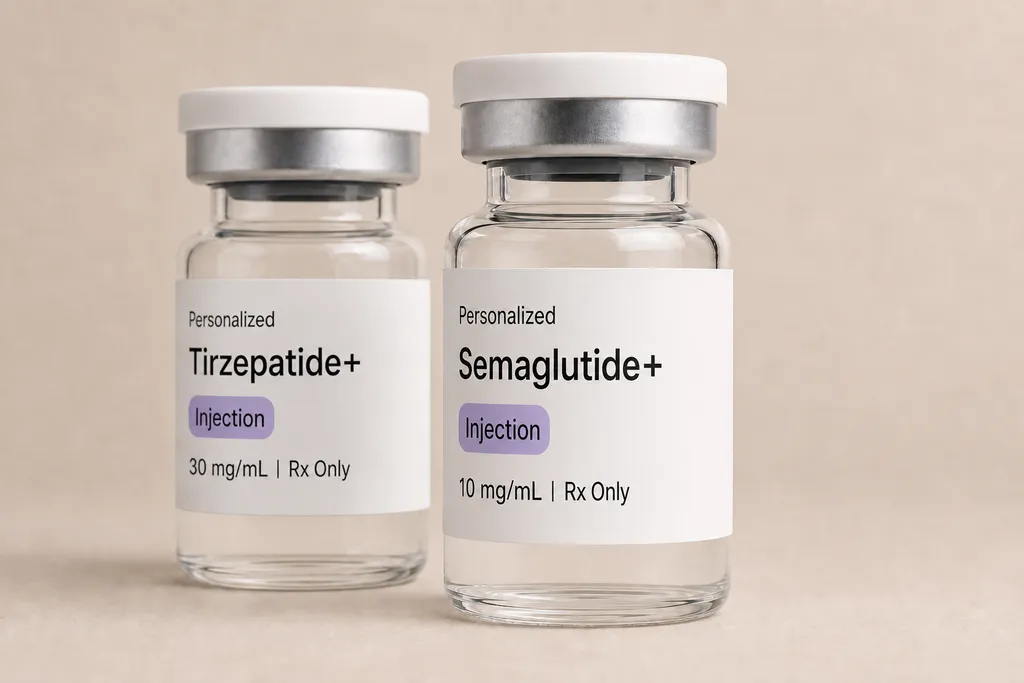
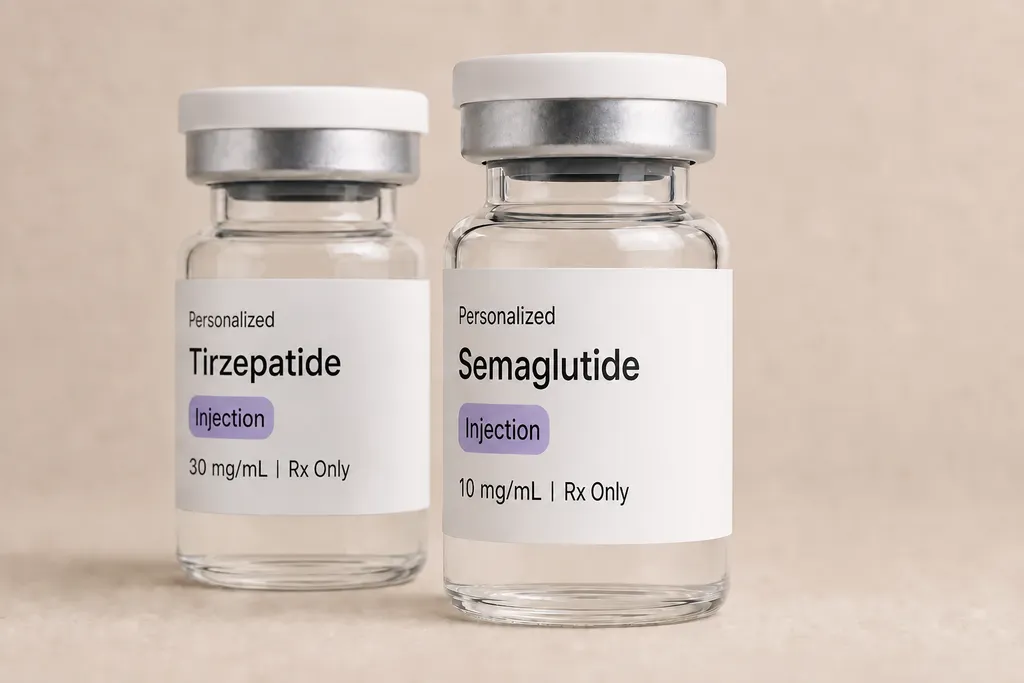
Remove plus signs from Semaglutide and Tirzepatide vial labels across site imagery.

diff --git a/src/marketing/howItWorksData.js b/src/marketing/howItWorksData.js
@@ -10,7 +10,7 @@ export const HOW_STEPS = [
     titleItalic: 'treatment plan',
     body: 'Browse our science-backed GLP-1 options and select the plan that fits your goals. Then complete a short medical history questionnaire — a few minutes that helps our providers confirm you’re a good fit for treatment.',
     image: {
-      src: `${HIW}/treatment-plan.webp?v=fast1`,
+      src: `${HIW}/treatment-plan.webp?v=noplus1`,
       alt: 'Pax Longevity Semaglutide and Tirzepatide treatment vials',
     },
     chips: ['Semaglutide', 'Tirzepatide'],
@@ -26,7 +26,7 @@ export const HOW_STEPS = [
     titleItalic: 'verify identity',
     body: 'Complete your purchase, then take one quick step to verify your identity by entering the last four digits of your SSN or uploading a photo of a government-issued ID. It’s a standard part of the process — and it ensures your prescription is issued safely and securely.',
     image: {
-      src: `${HIW}/checkout-verify-identity.webp?v=fast1`,
+      src: `${HIW}/checkout-verify-identity.webp?v=noplus1`,
       alt: 'Secure Pax checkout and identity verification',
     },
     chips: ['Secure checkout', 'ID verification', 'Cancel anytime'],
@@ -48,7 +48,7 @@ export const HOW_STEPS = [
     titleItalic: 'medication',
     body: 'Once approved, your prescription is sent to our licensed partner pharmacy and fulfilled to your exact treatment plan. Your medication ships via expedited delivery — securely packaged and delivered directly to your door.',
     image: {
-      src: `${HIW}/receive-your-medication.webp?v=fast1`,
+      src: `${HIW}/receive-your-medication.webp?v=noplus1`,
       alt: 'Pax Tirzepatide medication delivered in discreet packaging',
     },
     chips: ['Licensed pharmacy', 'Expedited shipping', 'Discreet packaging'],
@@ -73,7 +73,7 @@ export const HOW_STEPS = [
 export const HOW_WHY = [
   {
     image: {
-      src: `${YC}/semaglutide-tirzepatide-injection-vials.webp?v=fast1`,
+      src: `${YC}/semaglutide-tirzepatide-injection-vials.webp?v=noplus1`,
       alt: 'Pax Semaglutide and Tirzepatide vials',
     },
     title: 'Transparent & Trusted',
@@ -99,11 +99,11 @@ export const HOW_WHY = [
 
 export const HOW_MEDIA = {
   priority: {
-    src: `${HIW}/patient-portal-dashboard-semaglutide-mobile.webp?v=fast1`,
+    src: `${HIW}/patient-portal-dashboard-semaglutide-mobile.webp?v=noplus1`,
     alt: 'Pax Patient Center dashboard showing treatment plan and health records',
   },
   cta: {
-    src: `${HIW}/patient-portal-dashboard-semaglutide-mobile.webp?v=fast1`,
+    src: `${HIW}/patient-portal-dashboard-semaglutide-mobile.webp?v=noplus1`,
     alt: 'Pax Patient Center on mobile — track progress and manage treatment',
   },
 };

diff --git a/src/marketing/PaxHomeTreatments.jsx b/src/marketing/PaxHomeTreatments.jsx
@@ -18,7 +18,7 @@ const TREATMENTS = [
     price: '$125',
     period: '/mo',
     priceNote: '6-month plan · charged only if prescribed',
-    vials: [`${IMG}/personalized-semaglutide-injection-vial.webp?v=fast1`],
+    vials: [`${IMG}/personalized-semaglutide-injection-vial.webp?v=noplus1`],
     cutoutPair: `${IMG}/pax-glp1-couple-cutout.avif`,
     startTx: 'semaglutide',
     learnHref: '#/treatments/weight-loss',
@@ -38,7 +38,7 @@ const TREATMENTS = [
     price: '$225',
     period: '/mo',
     priceNote: '6-month plan · charged only if prescribed',
-    vials: [`${IMG}/personalized-tirzepatide-injection-vial.webp?v=fast1`],
+    vials: [`${IMG}/personalized-tirzepatide-injection-vial.webp?v=noplus1`],
     cutoutPair: `${IMG}/pax-glp1-couple-cutout-tirz.avif`,
     startTx: 'tirzepatide',
     learnHref: '#/treatments/weight-loss',

diff --git a/src/marketing/TreatmentsExplore.jsx b/src/marketing/TreatmentsExplore.jsx
@@ -747,7 +747,7 @@ function KnowallSection({ variant, faqs, vialSrc, photoSrc, onCta }) {
 }
 
 export function WhySection({ glpVialSrc } = {}) {
-  const glpVial = glpVialSrc || `${IMG}/semaglutide-tirzepatide-injection-vials.webp?v=fast1`;
+  const glpVial = glpVialSrc || `${IMG}/semaglutide-tirzepatide-injection-vials.webp?v=noplus1`;
   const pillars = [
     {
       id: 'trusted',
@@ -838,7 +838,7 @@ export function WhySection({ glpVialSrc } = {}) {
       media: (
         <div className="pax-why__media-frame pax-why__media-frame--portal">
           <img
-            src={`${IMG}/hiw/patient-portal-dashboard-semaglutide-mobile.webp?v=fast1`}
+            src={`${IMG}/hiw/patient-portal-dashboard-semaglutide-mobile.webp?v=noplus1`}
             alt=""
             loading="lazy"
           />

diff --git a/src/marketing/PaxHome.jsx b/src/marketing/PaxHome.jsx
@@ -68,13 +68,13 @@ const MEMBERSHIP_CARDS = [
   {
     id: 'portal',
     fit: 'phone',
-    src: '/images/pax-media/hiw/patient-portal-dashboard-semaglutide-mobile.webp?v=fast1',
+    src: '/images/pax-media/hiw/patient-portal-dashboard-semaglutide-mobile.webp?v=noplus1',
     alt: 'Pax patient portal on a phone',
   },
   {
     id: 'medication',
     fit: 'cover',
-    src: '/images/membership/vials.webp?v=clean1',
+    src: '/images/membership/vials.webp?v=noplus1',
     alt: 'Personalized Semaglutide and Tirzepatide vials',
   },
   {
